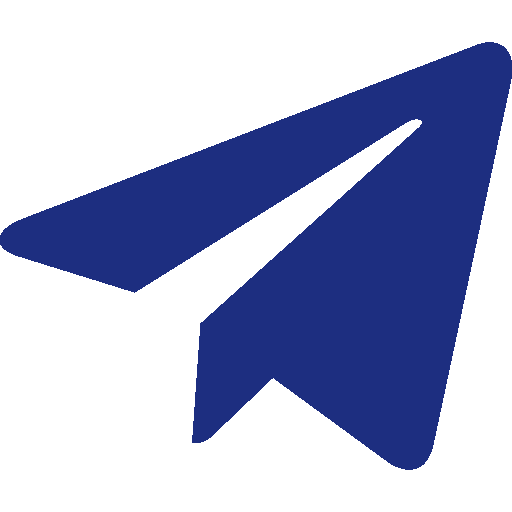
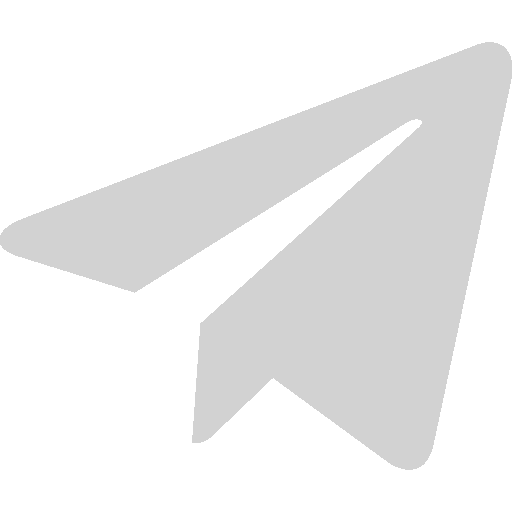
to dark

diff --git a/src/scss/index.scss b/src/scss/index.scss
@@ -1,26 +1,18 @@
 @tailwind base;
 @tailwind components;
 @tailwind utilities;
-@import url('https://fonts.googleapis.com/css2?family=Oswald:wght@500&display=swap');
+@import url('https://fonts.googleapis.com/css2?family=Nunito+Sans:wght@400;700;900&display=swap');
 @import "vars";
 
 body {
   margin: 0;
-  font-family: -apple-system, BlinkMacSystemFont, 'Segoe UI', 'Roboto', 'Oxygen',
-    'Ubuntu', 'Cantarell', 'Fira Sans', 'Droid Sans', 'Helvetica Neue',
-    sans-serif;
-  -webkit-font-smoothing: antialiased;
-  -moz-osx-font-smoothing: grayscale;
[1 lines of base64/hex data omitted]
-  background-color: $white;
+  background-color: $dark;
 }
 
-code {
-  font-family: source-code-pro, Menlo, Monaco, Consolas, 'Courier New',
-    monospace;
+* {
+  font-family: "Nunito Sans", sans-serif;
 }
 
 .noise-background {
[1 lines of base64/hex data omitted]
-  background-color: $white;
 }

diff --git a/src/components/Navbar.js b/src/components/Navbar.js
@@ -32,7 +32,7 @@ function Navbar() {
         initial={INITIAL}
         animate={ANIMATE}
         transition={TRANSITION}
-        className="noise-background navbar flex items-center justify-center h-20 shadow-xl border-b border-white-100 pt-4 p-2 w-full fixed"
+        className=" navbar flex items-center justify-center h-20 shadow-xl pt-4 p-2 w-full fixed"
     >
         <ul className="flex">
             {
@@ -42,7 +42,7 @@ function Navbar() {
                         key={link.to}
                     >
                         <Link
-                            className="cursor-pointer"
+                            className="cursor-pointer rounded-xl"
                             smooth
                             spy
                             to={link.to}

diff --git a/src/components/portfolio/Card.js b/src/components/portfolio/Card.js
@@ -1,8 +1,10 @@
 import React from "react";
+import LinkImg from "../../img/link.png";
 
 function Card(props) {
-    return <a href={props.link} className="portfolio-card rounded hover:ring-4 overflow-hidden noise-background">
-        <img className="portfolio-card" src={props.img} alt={props.label}/>
+    return <a href={props.link} className="portfolio-card rounded hover:ring-4 relative noise-background overflow-hidden ">
+        <img src={LinkImg} alt="link" className="absolute right-2 top-2" width="32"/>
+        <img className="portfolio-card__image" src={props.img} alt={props.label}/>
         <div className="p-4 text-white">
             <h4 className="text-2xl text-center font-semibold">
                 {

diff --git a/src/components/stack/Card.js b/src/components/stack/Card.js
@@ -1,7 +1,7 @@
 import React from "react";
 
 function Card(props) {
-    return <div className="bg-white stack-card rounded p-4 shadow-md items-center">
+    return <div className="stack-card text-slate-300 rounded-xl p-4 noise-background shadow-md items-center">
         <div
             className="stack-card__image bg-cover mx-auto"
             style={{
@@ -9,7 +9,7 @@ function Card(props) {
             }}
         />
         <div>
-            <h4 className="text-2xl mt-4 text-center font-semibold">
+            <h4 className="text-2xl text-white mt-4 text-center font-semibold">
                 {
                     props.label
                 }

diff --git a/src/components/header/Description.js b/src/components/header/Description.js
@@ -1,7 +1,7 @@
 import React from "react";
 
 function Description() {
-    return <p className="text-xl mt-4 text-center md:text-left">
+    return <p className="text-xl mt-4 text-center md:text-left text-slate-300">
         Привет, Я специализируюсь как Frontend-разработчик, <br/>
         занимаюсь этим более 1 года и мне нравится сложные задачки, <br/>
         каждый день узнаю что-то новое и хочу стремиться дальше вперед, буду рад сотрудничеству.

diff --git a/src/components/header/Name.js b/src/components/header/Name.js
@@ -1,12 +1,12 @@
 import React from "react"
 function Name() {
     return <>
-        <p className="ml-2 md:text-left text-center font-display text-slate-700">
+        <p className="ml-2 md:text-left text-center font-display text-white">
             Веб разработчик
         </p>
 
         <h1
-            className="text-6xl md:text-left text-center w-full md:w-fit header__name noise-background font-display">
+            className="text-6xl md:text-left text-center w-full md:w-fit header__name  font-display">
 
             Даниил
             <br/>

diff --git a/src/components/header/Сontacts.js b/src/components/header/Сontacts.js
@@ -3,7 +3,7 @@ import VkImg from "../../img/vk.png";
 import TelegramImg from "../../img/telegram.png";
 
 function Contacts() {
-    return <div className="absolute bottom-4 text-xl text-custom-blue">
+    return <div className="absolute bottom-4 text-xl text-slate-300">
         <div className="flex justify-center">
             <a href="https://t.me/dsavelyev" className="mr-4">
                 <img src={TelegramImg} alt="vk" width="40"/>

diff --git a/src/components/portfolio/Portfolio.js b/src/components/portfolio/Portfolio.js
@@ -14,7 +14,7 @@ const PORTFOLIO = [
 
 function Portfolio() {
     return <section id="portfolio" className="portfolio">
-        <h1 className="font-display text-4xl my-4 text-center text-custom-blue">
+        <h1 className="font-display text-4xl my-4 text-center text-white">
             Портфолио
         </h1>
         <div className="gap-3 p-6 grid grid-cols-1 shadow-md lg:grid-cols-2 auto-rows-max">

diff --git a/src/components/header/Container.js b/src/components/header/Container.js
@@ -18,7 +18,7 @@ function Container() {
         initial={INITIAL}
         animate={ANIMATE}
         transition={TRANSITION}
-        className="header__container mb-60 md:mx-40 mx-10"
+        className="header__container mb-40 md:mb-60 md:mx-40 mx-10"
     >
         <Name/>
         <Description/>

diff --git a/src/components/stack/Stack.js b/src/components/stack/Stack.js
@@ -48,7 +48,7 @@ const STACK = [
 ]
 
 function Stack() {
-    return <section id="stack" className="stack pt-5 noise-background">
+    return <section id="stack" className="stack pt-5">
         <h1 className="font-display text-4xl text-center text-white">
             Навыки
         </h1>

diff --git a/src/scss/header.scss b/src/scss/header.scss
@@ -9,6 +9,10 @@
   justify-content: center;
 
   & .header__name {
-    color: $accent;
+    font-size: 72px;
+    background: -webkit-linear-gradient(45deg, $accent, $accent-2);
+    -webkit-background-clip: text;
+    -webkit-text-fill-color: transparent;
+    font-weight: 900;
   }
 }

diff --git a/src/scss/navbar.scss b/src/scss/navbar.scss
@@ -2,5 +2,15 @@
 
 .navbar {
   z-index: 2;
-  background-color: $accent;
+  background-color: $dark;
+  box-shadow: 0 0 1px $gray-2;
+
+  & li a {
+    padding: 10px;
+    transition: 0.1s ease-in-out;
+
+    &:hover {
+      background-color: $gray-3;
+    }
+  }
 }
